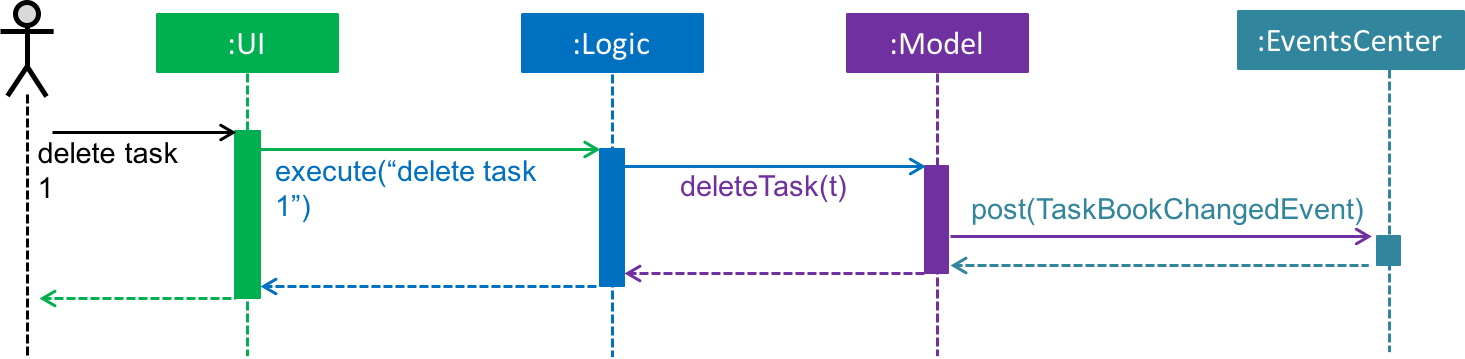
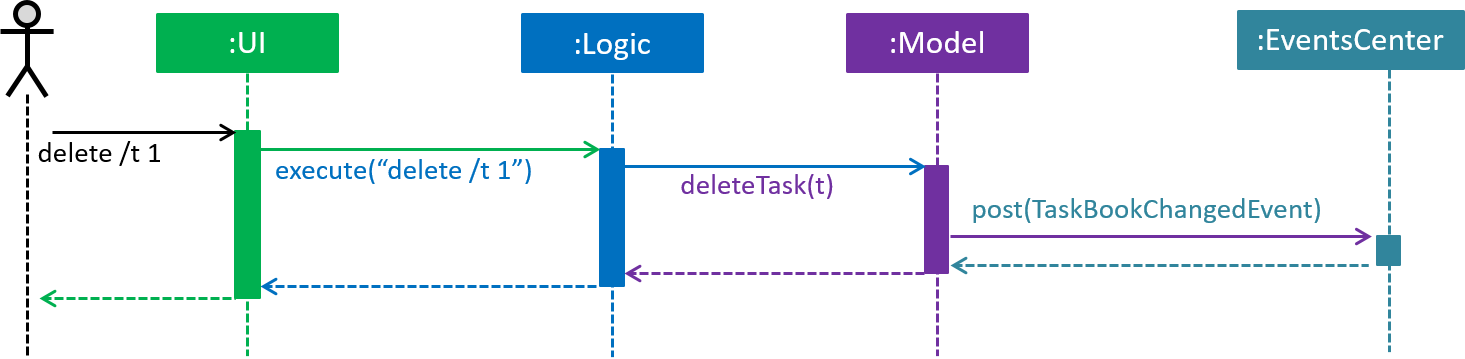
Improve dev guide (#147)
* Updated general errors in Developer Guide

* Edited diagrams according to TK comments

diff --git a/docs/DeveloperGuide.md b/docs/DeveloperGuide.md
@@ -1,6 +1,7 @@
 # Developer Guide 
 
 * [Setting Up](#setting-up)
+* [Problem Domain](#problem-domain)
 * [Design](#design)
 * [Implementation](#implementation)
 * [Managing Dependencies](#managing-dependencies)
@@ -43,10 +44,10 @@
 
 ## Problem Domain
 
-With the use of Activity Diagrams, we can understand the context under which `Dowat` is used.<br>
-Users of `Dowat` receive their task and event items mainly from their email inbox.<br>
-By storing the task or event received immediately into `Dowat`, the user can archive the email immediately.<br>
-By accessing `Dowat`, the user is able to determine the important tasks at hand and upcoming events for the day or week.<br>
+With the use of Activity Diagrams, we can understand the context under which `Dowat` is used. <br>
+Users of `Dowat` receive their task and event items mainly from their email inbox. <br>
+By storing the task or event received immediately into `Dowat`, the user can archive the email immediately. <br> 
+By accessing `Dowat`, the user is able to keep track of the important tasks at hand and upcoming events for the day or week. <br>
 This will help the user plan their use of time more effectively.<br>
 
 <img src="images/ADForEmailAndDowat.png" width="850" height="500"><br>
@@ -125,12 +126,13 @@ The `UI` component,
 
 **API** : [`Logic.java`](../src/main/java/seedu/task/logic/Logic.java)
 
-1. `Logic` uses the `Parser` class to parse the user command.
-2. This results in a `Command` object which is executed by the `LogicManager`.
-3. The command execution can affect the `Model` (e.g. adding a task) and/or raise events.
-4. The result of the command execution is encapsulated as a `CommandResult` object which is passed back to the `Ui`
-5. The UndoableCommandHistory applies the Singleton pattern which holds the sole copy of the modifications done to the `Dowat`. 
-6. We did not choose to store a list of events/tasks, or copies of `Dowat` as a history. Instead, we chose to store a stack of commands which are more lightweighted, and occupy less storage. 
+The `Logic` component,
+* Uses the `Parser` class to parse the user command.
+* Results in a `Command` object which is executed by the `LogicManager`.
+* Command execution can affect the `Model` (e.g. adding a task) and/or raise events.
+* Result of the command execution is encapsulated as a `CommandResult` object which is passed back to the `UI`.
+* `UndoableCommandHistory` applies the Singleton pattern which holds the sole copy of the modifications done to the `Dowat`. 
+* `UndoableCommandHistory` does not store a list of events/tasks, or copies of `Dowat` as a history. Instead, it stores a stack of commands which are more lightweighted, and occupy less storage. 
 <!-- @@author  -->
 <!-- @@author A0127570H -->
 
@@ -142,7 +144,7 @@ The `UI` component,
 
 The `Model`,
 * Stores a `UserPref` object that represents the user's preferences
-* Stores the dowat data
+* Stores the `Dowat` data
 * Exposes a `UnmodifiableObservableList<ReadOnlyTask>` as well as `UnmodifiableObservableList<ReadOnlyEvent>` that can be 'observed' e.g. the UI can be bound to this list
   so that the UI automatically updates when the data in the list change.
 * Does not depend on any of the other three components.
@@ -155,12 +157,12 @@ The `Model`,
 
 The `Storage` component,
 * can save `UserPref` objects in json format and read it back.
-* can save dowat data in xml format and read it back.
+* can save `Dowat` data in xml format and read it back.
 <!-- @@author  -->
 
 ### Common classes
 
-Classes used by multiple components are in the `seedu.taskbook.commans` package. 
+Classes used by multiple components are in the `seedu.taskbook.commans` package.
 
 ## Implementation
 
@@ -222,20 +224,23 @@ The dependencies are bound into the jar release and will not require extra depen
 
 Priority | As a ... | I want to ... | So that I can...
 ---------|----------|---------------|-----------------
-`* * *` | user | be able to add a task into the program | enter it into the database
-`* * *` | user | be able to list all the tasks in the database | keep track of all my tasks that I have to do 
-`* * *` | user | be able to list the tasks undone or done | keep track of tasks which are done which are not
-`* * *` | user | be able to edit the description of an existing task in the program | keep my tasks updated
+`* * *` | user | be able to add a task into the program | maintain a list of tasks to do
+`* * *` | user | be able to add a task with a deadline into the program | set a deadline for myself to complete the task
+`* * *` | user | be able to add an event into the program | maintain a schedule of upcoming events
+`* * *` | user | be able to list all the uncompleted tasks in the database | keep track of all my tasks that I have to do 
+`* * *` | user | be able to list all the upcoming events | keep track of my upcoming schedule 
+`* * *` | user | be able to list all completed and uncompleted tasks | keep track of tasks which are not completed and otherwise
+`* * *` | user | be able to edit the name or description of an existing task in the program | keep my tasks updated
 `* * *` | user | be able to edit the deadline of an existing task in the program | keep the deadlines for my tasks updated
 `* * *` | user | be able to edit the occurrence and duration of an event in the program | keep my events updated
 `* * *` | user | be able to mark the completion of an existing task in the program | keep update list of uncompleted tasks 
 `* * *` | user | be able to delete an existing task or event in the program | keep my tasks and events updated
-`* * *` | user | be able to specify my storage location to save my files | keep my files saved in different responsories
-`* * *` | user | be able to seek help with the operations and commands of the program | keep the program user friendly
+`* * *` | user | be able to specify my storage location to save my files | keep my files saved in different repositories
+`* * *` | user | be able to seek help with the operations and commands of the program | get command specific assistance
 `* * *` | user | be able to exit the program | keep a proper shutdown of the program
 `* * *` | user | be able to simple search for tasks using keywords that are in the name and description | retrieve tasks easily
 `* * *` | user | be able undo the most recent modification | revert from unintended modifications
-`* * *` | user | be able to use flexible commands when adding tasks | have greater flexibility in adding tasks
+`* *` | user | be able to have flexibility in order of fields in commands | have greater flexibility in keying in commands
 `* *` | user | be able to search any words related to a task | retrieve tasks more easily
 `* *` | user | see a snapshot of events in the calendar view | retrieve informaiton in a graphical way.
 
@@ -567,7 +572,7 @@ Since it does not need to retrieve or modidfy data in the model.
 > 1. No freemium reminder features
 
 **Feedback**
-> Highly recommended for all memebrs to use it. 
+> Highly recommended for all members to use it. 
 
 <!-- @@author -->
 <!-- @@author A0127570H -->
@@ -614,7 +619,7 @@ Since it does not need to retrieve or modidfy data in the model.
 
 
 <!-- @@author A0144702N -->
-## Appendix F : Pull Request
+## Appendix F : Pull Request Format
 
 None of the parts below are compulsory for a PR, but a good template to follow in general. Developers are free to add in or remove sections as stated below. 
 
